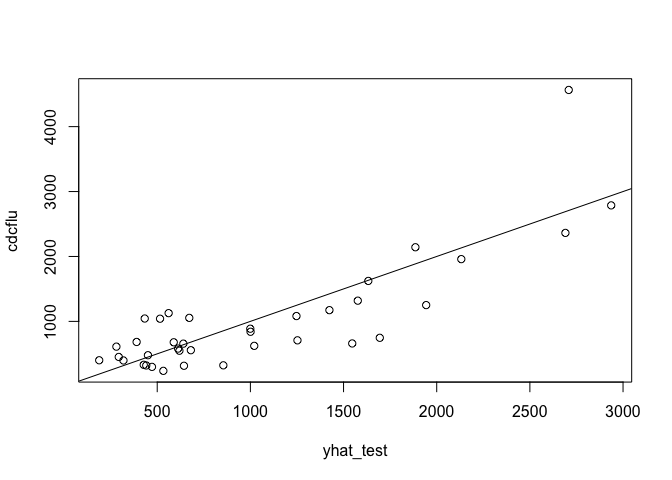
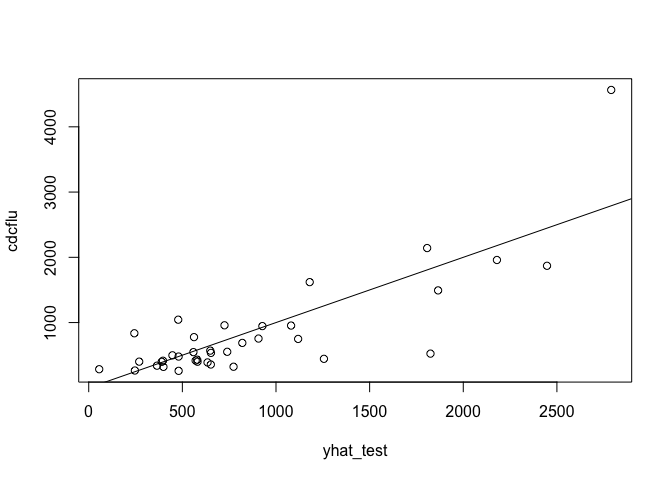
no message

diff --git a/flu/flu.md b/flu/flu.md
@@ -6,8 +6,8 @@ stepwise selection.
 
 The data you'll look at contain weekly data from the Centers for Disease
 Control on the number of influenza-like illnesses reported in the
-south-eastern United States. This column is labeled "TILI" in the two
-data files below. The data run from 2008 through the last week of 2011.
+south-eastern United States. This column is labeled "cdcflu" in the data
+file. The data run from 2008 through the last week of 2011.
 
 In addition, you have information on 86 flu-related search terms from
 Google's databases. Some are obvious ("how.long.does.flu.last"); some
@@ -249,7 +249,7 @@ test set:
     RMSPE = sqrt(MSPE)
     RMSPE
 
-    ## [1] 477.4367
+    ## [1] 462.24
 
 Your number will be slightly different from mine, since the train/test
 split is random.
@@ -294,7 +294,7 @@ to Monte Carlo variability:
 
     mean(out$result)
 
-    ## [1] 410.4394
+    ## [1] 421.311
 
 ### Comparing with the full model
 
@@ -308,179 +308,179 @@ otherwise named."
     coef(lm_big)
 
     ##                              (Intercept) 
-    ##                              736.9608878 
+    ##                              574.7792551 
     ##                          dangerous.fever 
-    ##                              -55.3301569 
+    ##                               10.1563293 
     ##                   how.long.does.flu.last 
-    ##                              -97.2054244 
+    ##                              264.5559616 
     ##                           i.have.the.flu 
-    ##                              176.2093356 
+    ##                              230.0980499 
     ##                              fever.cough 
-    ##                              -56.5954789 
+    ##                               53.2588417 
     ##        what.to.eat.when.you.have.the.flu 
-    ##                              174.5657472 
+    ##                              106.2188906 
     ##                         medicine.for.flu 
-    ##                               12.7418114 
+    ##                              107.6863163 
     ## how.long.are.you.contagious.with.the.flu 
-    ##                               21.0990608 
+    ##                               66.7708499 
     ##                          viral.pneumonia 
-    ##                              114.4942361 
+    ##                              126.1719228 
     ##                  how.to.get.over.the.flu 
-    ##                              174.5033328 
+    ##                              173.0398752 
     ##                            treat.the.flu 
-    ##                              443.4961498 
+    ##                             -649.4337441 
     ##                         signs.of.the.flu 
-    ##                              118.4830147 
+    ##                              -28.9892728 
     ##                           flu.contagious 
-    ##                              -16.6101661 
+    ##                               -7.0306621 
     ##                          ear.thermometer 
-    ##                              -21.1091727 
+    ##                              -53.7921370 
     ##                     can.dogs.get.the.flu 
-    ##                              -45.2078812 
+    ##                               79.1066905 
     ##                   anas.barbariae.hepatis 
-    ##                              206.2928667 
+    ##                               11.4602881 
     ##                         how.to.treat.flu 
-    ##                              -82.6260768 
+    ##                               90.8010913 
     ##                                 cure.flu 
-    ##                              371.3268611 
+    ##                              370.2647391 
     ##                                treat.flu 
-    ##                               27.3779209 
+    ##                               -2.3919247 
     ##                              cold.or.flu 
-    ##                               57.5863429 
+    ##                               58.6911522 
     ##                     what.is.a.high.fever 
-    ##                              -12.8918239 
+    ##                               18.5235817 
     ##                          oscillococcinum 
-    ##                               63.8850529 
+    ##                               11.5593276 
     ##                        treatment.for.flu 
-    ##                              -14.5541187 
+    ##                              149.9627522 
     ##                         remedies.for.flu 
-    ##                             -243.8328369 
+    ##                             -602.5401878 
     ##                how.to.get.rid.of.the.flu 
-    ##                               92.7041911 
+    ##                              109.8842819 
     ##                      bacterial.pneumonia 
-    ##                              -24.1865359 
+    ##                                8.9460911 
     ##                      symptoms.of.the.flu 
-    ##                             -270.8577862 
+    ##                             -232.4405631 
     ##                          fever.and.cough 
-    ##                               13.3390056 
+    ##                               27.5937292 
     ##                         braun.thermoscan 
-    ##                              -81.1030075 
+    ##                               -0.4694415 
     ##                 how.long.am.i.contagious 
-    ##                               61.2026717 
+    ##                              -12.9619358 
     ##                    home.remedies.for.flu 
-    ##                             -152.7514817 
+    ##                              259.5772567 
     ##                              cough.fever 
-    ##                               19.0237078 
+    ##                               -1.8638884 
     ##                             cure.the.flu 
-    ##                              -15.7522501 
+    ##                              -79.9163183 
     ##                     low.body.temperature 
-    ##                             -175.5622214 
+    ##                             -256.2670365 
     ##                           contagious.flu 
-    ##                             -100.9357891 
+    ##                               47.0825515 
     ##                           headache.cough 
-    ##                                6.0407808 
+    ##                               83.5058418 
     ##                            painful.cough 
-    ##                              -12.5080703 
+    ##                               70.4084316 
     ##                           get.rid.of.flu 
-    ##                               58.0317901 
+    ##                              -32.8942484 
     ##                              normal.body 
-    ##                               43.1322823 
+    ##                              -12.8520172 
     ##                           cough.headache 
-    ##                               25.4689289 
+    ##                              -41.9942601 
     ##                     how.to.fight.the.flu 
-    ##                               48.4889219 
+    ##                             -104.6573021 
     ##                              flu.or.cold 
-    ##                             -242.9741008 
+    ##                             -298.1330851 
     ##            over.the.counter.flu.medicine 
-    ##                               -3.9704551 
+    ##                              -76.1903750 
     ##                            flu.and.fever 
-    ##                              143.9292988 
+    ##                               12.8277770 
     ##                         viral.bronchitis 
-    ##                               11.6930684 
+    ##                              -23.6266194 
     ##                               thermoscan 
-    ##                               24.1969677 
+    ##                              104.7916489 
     ##                       taking.temperature 
-    ##                               32.7466630 
+    ##                              107.8744598 
     ##                        influenza.a.and.b 
-    ##                               43.0260869 
+    ##                                9.8787215 
     ##                                fever.flu 
-    ##                              -46.3360410 
+    ##                              179.9350131 
     ##                         oral.thermometer 
-    ##                               82.4650990 
+    ##                                0.7774768 
     ##                                  the.flu 
-    ##                              -23.4067899 
+    ##                                6.4132449 
     ##                     medicine.for.the.flu 
-    ##                              -15.7353139 
+    ##                              164.6661989 
     ##                            treat.a.fever 
-    ##                              -36.3540930 
+    ##                              -97.9147282 
     ##                          cough.after.flu 
-    ##                               87.2657849 
+    ##                             -106.0255974 
     ##                         acute.bronchitis 
-    ##                               11.8054724 
+    ##                               92.0216616 
     ##         what.to.do.when.you.have.the.flu 
-    ##                             -105.3402310 
+    ##                              -67.6171389 
     ##                               bronchitis 
-    ##                               18.0074288 
+    ##                               64.9231736 
     ##                                extractum 
-    ##                              -46.6117223 
+    ##                              -10.3284239 
     ##                        best.flu.medicine 
-    ##                             -154.2243811 
+    ##                                8.9042059 
     ##              how.long.are.you.contagious 
-    ##                              -17.6181799 
+    ##                             -111.0845950 
     ##                           fever.reducers 
-    ##                              116.5216595 
+    ##                              140.2853536 
     ##                         body.temperature 
-    ##                                9.7141397 
+    ##                               84.9721864 
     ##                             reduce.fever 
-    ##                              -85.6968968 
+    ##                              -21.4841528 
     ##                             flu.remedies 
-    ##                              -75.4859464 
+    ##                               31.4493938 
     ##         anas.barbariae.hepatis.et.cordis 
-    ##                              -29.3448465 
+    ##                              237.0209692 
     ##                     remedies.for.the.flu 
-    ##                              -30.3793628 
+    ##                              -12.0229448 
     ##                       symptoms.pneumonia 
-    ##                              -27.2286546 
+    ##                              -61.7503476 
     ##                           viral.syndrome 
-    ##                              -68.1762357 
+    ##                               59.7938784 
     ##                         the.flu.symptoms 
-    ##                             -148.6138595 
+    ##                             -106.0050967 
     ##                        what.is.influenza 
-    ##                              190.7448176 
+    ##                               90.3650641 
     ##                                pneumonia 
-    ##                               24.2097936 
+    ##                               55.7366742 
     ##                        fever.temperature 
-    ##                               40.7280936 
+    ##                               -6.6689307 
     ##                        child.temperature 
-    ##                              -43.1151911 
+    ##                               28.2386276 
     ##            incubation.period.for.the.flu 
-    ##                             -131.6218902 
+    ##                             -208.0295899 
     ##                               high.fever 
-    ##                             -146.3981624 
+    ##                             -132.5657827 
     ##                            low.body.temp 
-    ##                              -28.3526965 
+    ##                               55.5041267 
     ##                 how.long.does.fever.last 
-    ##                               94.6537532 
+    ##                               43.5754236 
     ##                            is.it.the.flu 
-    ##                                2.6597317 
+    ##                               13.2412759 
     ##                   what.to.do.for.the.flu 
-    ##                               49.3995228 
+    ##                                9.2890543 
     ##                            fight.the.flu 
-    ##                               33.9282777 
+    ##                              129.5018026 
     ##                   symptoms.of.bronchitis 
-    ##                               -3.6329087 
+    ##                             -207.5998002 
     ##                     bacterial.bronchitis 
-    ##                              105.7237677 
+    ##                               37.6700681 
     ##                              chest.cough 
-    ##                              -48.8539551 
+    ##                              -37.9055993 
     ##                             fever.breaks 
-    ##                             -122.2597123 
+    ##                               83.1734352 
     ##                          cough.and.fever 
-    ##                               19.0934320 
+    ##                               11.1822361 
     ##                           fever.too.high 
-    ##                                6.7810635 
+    ##                               52.8355496 
     ##                       early.flu.symptoms 
-    ##                                0.5412513
+    ##                               32.2512955
 
 That's a lot of coefficients! Let's now use the testing set to compare
 the error of this big model with the small three-variable model:
@@ -499,7 +499,7 @@ the error of this big model with the small three-variable model:
     # The result?
     c(RMSPE_small, RMSPE_big)
 
-    ## [1] 506.2725 662.3172
+    ## [1] 368.6170 553.3426
 
 This tells which model performed better on this particular testing set.
 But clearly it will be better to average over many different train/test
@@ -533,7 +533,7 @@ across all these different train/test splits:
     colMeans(out)
 
     ##       V1       V2 
-    ## 413.8996 509.7702
+    ## 413.2376 519.6006
 
 It looks as though the big model has *worse* generalization error than
 the simple three-variable model --- a classic example of overfitting. In
@@ -549,13 +549,18 @@ that's better than either of them? That is, can we do better by
 including somewhere between 3 and 86 variables in our model?
 
 We'll use stepwise selection to search for a model that leads to
-superior generalization error, starting from the big model. Notice that
-we use *all* the data, not just the training data, to actually search
-for a model using stepwise selection:
+superior generalization error, starting from the big model. A key point
+is that we use *all* the data, not just the training data, to actually
+search for a model using stepwise selection.
 
-    lm_big = lm(cdcflu ~ ., data=flu)
-    lm_step = step(lm_big, data = flu)
-    coef(lm_step)
+When you run the `step` command below, it should show *a lot* of output
+on your screen as it searches for possible additions and deletions that
+improve the out-of-sample generalization error of the model. If you want
+to suppress this output, add the flag `trace=0` to the `step` command:
+
+    lm_big = lm(cdcflu ~ ., data=flu)  # fit the big model
+    lm_step = step(lm_big, data = flu) # run stepwise selection
+    coef(lm_step) # look at the coefficients of the selected model
 
     ##                   (Intercept)        how.long.does.flu.last 
     ##                     689.02117                     173.03993 
@@ -591,11 +596,6 @@ for a model using stepwise selection:
     ##                     -65.25695                     110.52540 
     ##                   chest.cough 
     ##                     -48.53005
-
-The `step` command should show *a lot* of output on your screen as it
-searches for possible additions and deletions that improve the
-out-of-sample generalization error of the model. If you want to suppress
-this output, add the flag `trace=0` to the `step` command.
 
 Once the `step` function cannot make any improvements to the model, the
 algorithm terminates, and stores the resulting model in what we've
@@ -638,7 +638,7 @@ And the result?
 
     RMSPE_step
 
-    ## [1] 269.8901
+    ## [1] 267.0951
 
 Again, your number will be different because of Monte Carlo variability.
 
@@ -674,7 +674,7 @@ to what we get from the small and big models on the same set of splits:
     colMeans(out)
 
     ##       V1       V2       V3 
-    ## 410.8816 514.1212 275.2343
+    ## 416.6317 517.9292 284.5821
 
 Your numbers will be a bit different, but on average, you should notice
 that the stepwise model (the third entry) significantly outperforms both
